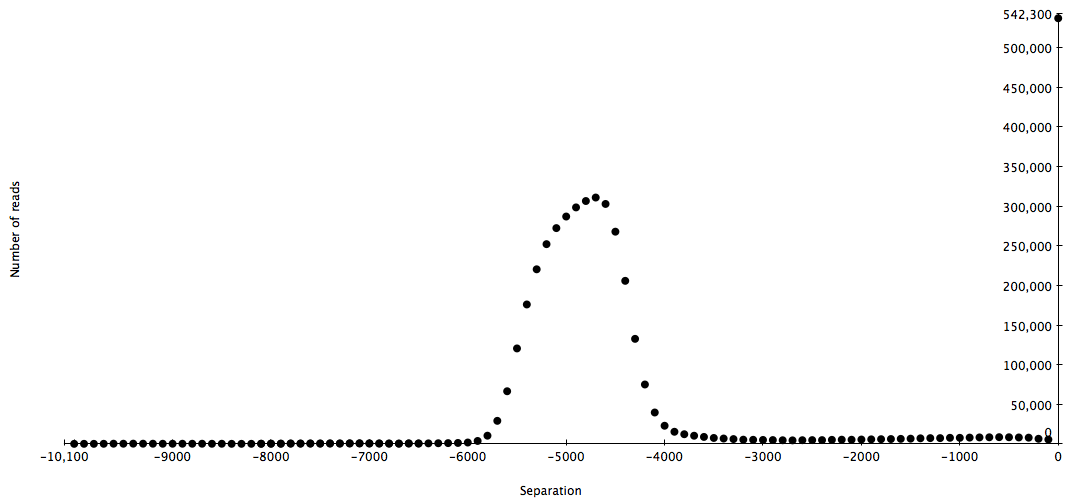
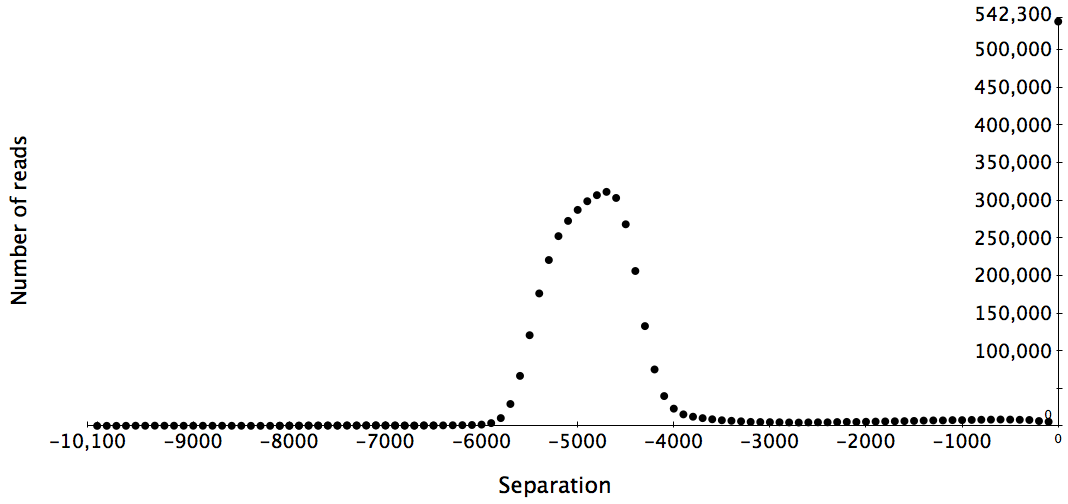
improved axes on images

diff --git a/README.md b/README.md
@@ -58,7 +58,7 @@ e) Generate an insert size histogram to check the insert size and shape of the d
 ```
 grep -v ‘@SQ' pe2ref.sam | grep -v '@PG' | awk -v binsize=20 '{if ($5>40) {if ($9>0) {print int($9/binsize)}else{print int($9/binsize*-1)}}}' | sort -n | uniq -c | awk -v binsize=20 '{print $2*binsize","$1}' > pe2ref.is
 ```
-<img src="images/yeast_pe.png"  width="450" height="400">
+<img src="images/yeast_pe.png"  width="550" height="400">
 
 ### 2) Contigging
 Use the w2rap-contigger to generate contigs from the PE reads.
@@ -131,10 +131,10 @@ kat comp -n -t 16 -m 27 -n -H10000000000 -I10000000000 -o lmp_vs_pe '/path/to/tr
 ```
 
 <img src="images/lmp_vs_pe_k27-main.mx.density.png"  width="450" height="400">
-                 lmp_vs_pe_k27-main.mx.density.png
+
 c) Map the reads to a reference and generate an insert size histogram to check the insert size and the shape of the distribution
 
-<img src="images/yeast_lmp.png"  width="450" height="400">
+<img src="images/yeast_lmp.png"  width="500" height="400">
 
 ```
 bwa index -p yeast ./contigs/a.lines.fasta
